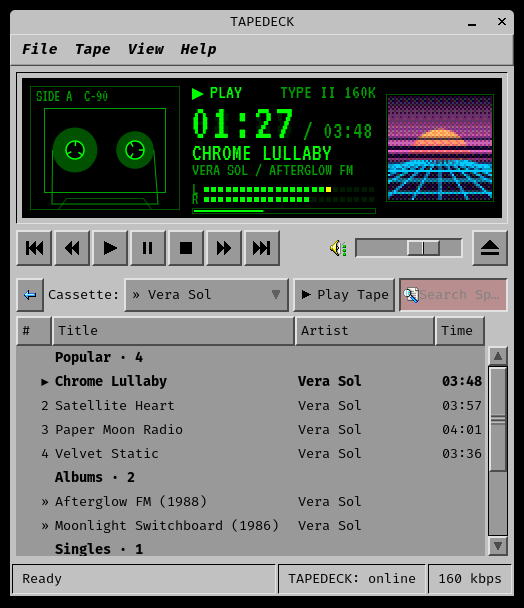
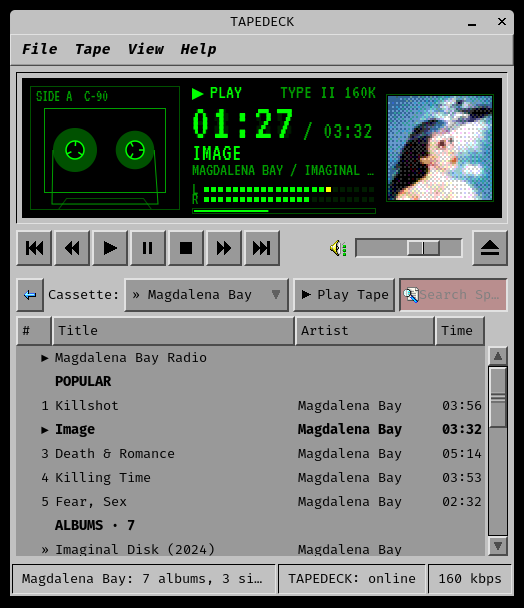
Screenshots: Magdalena Bay, Imaginal Disk

diff --git a/tools/screenshots.py b/tools/screenshots.py
@@ -1,11 +1,11 @@
-"""Maintainer tool: render the README screenshots into docs/ with made-up sample data.
+"""Maintainer tool: render the README screenshots into docs/ from hardcoded catalog data.
 
-Nothing touches Spotify, the engine or a running TAPEDECK: it uses its own application id,
+Nothing touches your Spotify account, the engine or a running TAPEDECK (only the cover is
+downloaded, like any cover): it uses its own application id,
 fills the widgets directly and draws the window into a PNG. Run it headless under GTK broadway:
 
     broadwayd :7 & GDK_BACKEND=broadway BROADWAY_DISPLAY=:7 python3 tools/screenshots.py; kill %1
 """
-import math
 import os
 import sys
 
@@ -18,92 +18,70 @@ look.prepare()
 import cairo  # noqa: E402
 import gi  # noqa: E402
 gi.require_version("Gtk", "3.0")
-from gi.repository import Gdk, Gio, GLib, Gtk  # noqa: E402
+from gi.repository import Gio, GLib, Gtk  # noqa: E402
 
 from tapedeck import art, deck  # noqa: E402
-from tapedeck.drawer import heading, nav_item  # noqa: E402
+from tapedeck.drawer import album_item, album_kind, heading, length, nav_item  # noqa: E402
 
 OUT = os.path.join(ROOT, "docs")
-MIN = 60_000
 
-TAPE = "Night Drive"
-TRACKS = [   # title, artist, album, ms
-    ("Neon Overpass", "The Midnight Carriers", "Coastline Static", 4 * MIN + 12_000),
-    ("Chrome Lullaby", "Vera Sol", "Afterglow FM", 3 * MIN + 48_000),
-    ("Polaroid Summer", "Kid Cassette", "Rewind & Play", 3 * MIN + 31_000),
-    ("Signal Lost", "The Midnight Carriers", "Coastline Static", 5 * MIN + 2_000),
-    ("Arcade Rain", "Pixel Harbor", "Insert Coin", 4 * MIN + 40_000),
-    ("Highway 9 (Dub)", "Lowlight Motel", "Vacancy", 6 * MIN + 15_000),
-    ("Satellite Heart", "Vera Sol", "Afterglow FM", 3 * MIN + 57_000),
-    ("Dial Tone Romance", "June Analog", "Party Line", 3 * MIN + 22_000),
-    ("Magnetic North", "Kid Cassette", "Rewind & Play", 4 * MIN + 5_000),
-    ("Slow Fade to Blue", "Lowlight Motel", "Vacancy", 5 * MIN + 33_000),
-    ("Tokyo by Payphone", "Pixel Harbor", "Insert Coin", 3 * MIN + 49_000),
-    ("Last Exit Sunrise", "June Analog", "Party Line", 4 * MIN + 28_000),
+# Real catalog data (Spotify Web API, 2026-10-15), hardcoded so the shots are reproducible offline.
+ARTIST = "Magdalena Bay"
+ALBUM = "Imaginal Disk"
+ALBUM_URI = "spotify:album:2Htq1sHgmdGffojIBM6Q1s"
+COVER = "https://i.scdn.co/image/ab67616d00004851a3390485ba30a0a99feaa0dd"
+TRACKS = [   # Imaginal Disk (2024): title, ms
+    ("She Looked Like Me!", 193186), ("Killing Time", 233546), ("True Blue Interlude", 109226),
+    ("Image", 212866), ("Death & Romance", 314733), ("Fear, Sex", 152053),
+    ("Vampire in the Corner", 202440), ("Watching T.V.", 245413), ("Tunnel Vision", 305520),
+    ("Love Is Everywhere", 194413), ("Feeling DiskInserted?", 58600), ("That's My Floor", 209800),
+    ("Cry for Me", 307266), ("Angel on a Satellite", 243426), ("The Ballad of Matt & Mica", 240000),
 ]
-NOW = 1   # Chrome Lullaby
+NOW = 3      # Image
+POPULAR = [("Killshot", "Killshot", 236363), ("Image", ALBUM, 212866), ("Death & Romance", ALBUM, 314733),
+           ("Killing Time", ALBUM, 233546), ("Fear, Sex", ALBUM, 152053)]
+ALBUMS = [   # name, type, tracks, release date
+    ("Imaginal Disk", "album", 15, "2024-08-23"), ("mini mix vol. 3", "album", 7, "2023-04-13"),
+    ("Mercurial World (Deluxe)", "album", 28, "2022-09-23"), ("Mercurial World", "album", 14, "2021-10-08"),
+    ("mini mix vol. 2", "album", 7, "2020-11-20"), ("A Little Rhythm and a Wicked Feeling", "album", 8, "2020-03-13"),
+    ("mini mix vol. 1", "album", 7, "2019-07-19"),
+    ("This Is The World (I Made It For You) / Nice Day", "single", 2, "2025-11-14"),
+    ("Unoriginal / Black-Eyed Susan Climb", "single", 2, "2025-10-31"),
+    ("Human Happens / Paint Me A Picture", "single", 2, "2025-10-17"),
+]
+SIMILAR = ["Caroline Polachek", "AFTER", "Charli xcx", "Hemlocke Springs"]
 
 
-def rows():
-    return [[t, a, al, ms, f"spotify:track:demo{i}"] for i, (t, a, al, ms) in enumerate(TRACKS)]
+def uri(title):
+    return "spotify:track:" + "".join(c for c in title.lower() if c.isalnum())
 
 
-def cover():
-    """A synthwave sunset, put through the same 52 px web-safe dither as real covers."""
-    s = art.SIZE
-    surf = cairo.ImageSurface(cairo.FORMAT_RGB24, s, s)
-    cr = cairo.Context(surf)
-    sky = cairo.LinearGradient(0, 0, 0, s * 0.62)
-    sky.add_color_stop_rgb(0, 0.10, 0.04, 0.18)
-    sky.add_color_stop_rgb(1, 1.0, 0.44, 0.81)
-    cr.set_source(sky)
-    cr.paint()
-    sun = cairo.LinearGradient(0, s * 0.18, 0, s * 0.62)
-    sun.add_color_stop_rgb(0, 1.0, 0.9, 0.3)
-    sun.add_color_stop_rgb(1, 1.0, 0.3, 0.5)
-    cr.set_source(sun)
-    cr.arc(s / 2, s * 0.62, s * 0.3, math.pi, 0)
-    cr.fill()
-    cr.set_source_rgb(0.10, 0.04, 0.18)
-    for i, y in enumerate((0.40, 0.48, 0.55)):
-        cr.rectangle(0, s * y, s, 1 + i)
-        cr.fill()
-    cr.rectangle(0, s * 0.62, s, s)
-    cr.fill()
-    cr.set_source_rgb(0.0, 0.8, 1.0)
-    cr.set_line_width(1)
-    for k in range(-6, 7):
-        cr.move_to(s / 2 + k * 2, s * 0.62)
-        cr.line_to(s / 2 + k * 14, s)
-    for y in (0.66, 0.72, 0.81, 0.93):
-        cr.move_to(0, s * y)
-        cr.line_to(s, s * y)
-    cr.stroke()
-    pb = Gdk.pixbuf_get_from_surface(surf, 0, 0, s, s)
-    return art.surface(art._dither(pb))
+def album_rows():
+    return [[t, ARTIST, ALBUM, ms, uri(t)] for t, ms in TRACKS]
 
 
-def stage(d, playing=True):
-    title, artist, album, ms = TRACKS[NOW]
+def stage(d):
+    title, ms = TRACKS[NOW]
     t = d.tape
-    t.name, t.artists, t.album, t.uri = title, artist, album, f"spotify:track:demo{NOW}"
-    t.duration_ms, t.mode, t.volume = ms, "play" if playing else "pause", 70
+    t.name, t.artists, t.album, t.uri = title, ARTIST, ALBUM, uri(title)
+    t.duration_ms, t.mode, t.volume = ms, "play", 70
     t.set_pos(83_000)
     t.angles = [0.6, 2.1]
-    t.vu = (0.74, 0.63) if playing else None
-    t.art = cover()
+    t.vu = (0.74, 0.63)
+    t.art = art.surface(art.load(COVER))    # the real cover, through the app's own dither
     d.quiet = True
     d.vol.set_value(70)
     d.quiet = False
     d.set_online(True)
 
 
-def combo(dr, entries, active):
+def combo(dr, page, label):
     dr.combo.handler_block_by_func(dr._on_combo)
     dr.combo.remove_all()
-    for cid, label in entries:
-        dr.combo.append(cid, label)
-    dr.combo.set_active_id(active)
+    for cid, text in [("liked", "Liked Songs"), ("search", "Search Results"), ("queue", "Up Next (queue)"),
+                      (page, "» " + label)]:
+        dr.combo.append(cid, text)
+    dr.combo.set_active_id(page)
     dr.combo.handler_unblock_by_func(dr._on_combo)
 
 
@@ -115,36 +93,35 @@ def shoot(w, name):
     print(name, a.width, "x", a.height)
 
 
-def tape_open(d):
-    dr = d.drawer
-    combo(dr, [("liked", "Liked Songs"), ("search", "Search Results"), ("queue", "Up Next (queue)"),
-               ("demo", TAPE)], "demo")
-    dr._fill(rows())
+def album_page(d):
+    """As Drawer._load_album lays it out."""
+    dr, rows = d.drawer, album_rows()
+    combo(dr, "album:demo", ALBUM)
+    items = [heading("ALBUM · 2024")] + [("track", r) for r in rows]
+    items += [heading("BY"), nav_item("artist", ARTIST, "spotify:artist:1oPRcJUkloHaRLYx0olBLJ", ARTIST)]
+    dr._fill_items(items)
     dr.mark_playing(d.tape.uri, d.tape.name, d.tape.artists)
-    dr.tree.set_cursor(Gtk.TreePath(3), None, False)
-    dr._summary(TAPE)
+    dr.tree.set_cursor(Gtk.TreePath(5), None, False)     # Death & Romance
+    d.say(f"{ALBUM} (2024): {len(rows)} tracks, {length(rows)}")
 
 
 def artist_page(d):
+    """As Drawer._load_artist's build() lays it out."""
     dr = d.drawer
-    combo(dr, [("liked", "Liked Songs"), ("search", "Search Results"), ("queue", "Up Next (queue)"),
-               ("artist:demo", "» Vera Sol"), ("demo", TAPE)], "artist:demo")
-    pop = [r for r in rows() if r[1] == "Vera Sol"] + [
-        ["Paper Moon Radio", "Vera Sol", "Afterglow FM", 4 * MIN + 1_000, "spotify:track:demoA"],
-        ["Velvet Static", "Vera Sol", "Velvet Static", 3 * MIN + 36_000, "spotify:track:demoB"]]
-    dr._fill_items(
-        [heading("Popular", len(pop))] + [("track", r) for r in pop]
-        + [heading("Albums", 2),
-           ("album", "Afterglow FM (1988)", "Vera Sol", "", "spotify:album:a", "Afterglow FM\nAlbum · 1988"),
-           ("album", "Moonlight Switchboard (1986)", "Vera Sol", "", "spotify:album:b", "Album · 1986"),
-           heading("Singles", 1),
-           ("album", "Velvet Static (1989)", "Vera Sol", "", "spotify:album:c", "Single · 1989"),
-           heading("Fans Also Like", 3),
-           nav_item("artist", "June Analog", "spotify:artist:a", "June Analog"),
-           nav_item("artist", "Pixel Harbor", "spotify:artist:b", "Pixel Harbor"),
-           nav_item("radio", "Vera Sol Radio", "radio:demo", "Start radio")])
+    combo(dr, "artist:demo", ARTIST)
+    kinds = {"Album": [], "EP": [], "Single": [], "Compilation": []}
+    for name, typ, n, date in ALBUMS:
+        al = {"name": name, "album_type": typ, "total_tracks": n, "release_date": date,
+              "artists": [{"name": ARTIST}], "uri": "spotify:album:" + uri(name)[14:]}
+        kinds[album_kind(al)].append(album_item(al))
+    popular = [("track", [t, ARTIST, al, ms, uri(t)]) for t, al, ms in POPULAR]
+    items = [nav_item("radio", f"{ARTIST} Radio", ARTIST, f"{ARTIST} Radio")]
+    for head, group in [("POPULAR", popular), ("ALBUMS", kinds["Album"]), ("SINGLES", kinds["Single"]),
+                        ("FANS ALSO LIKE", [nav_item("artist", n, "dz:" + n, n) for n in SIMILAR])]:
+        items += [heading(head, len(group) if head != "POPULAR" else None)] + group
+    dr._fill_items(items)
     dr.mark_playing(d.tape.uri, d.tape.name, d.tape.artists)
-    d.say("Ready")
+    d.say(f"{ARTIST}: {len(kinds['Album'])} albums, {len(kinds['Single'])} singles")
 
 
 class Shots(Gtk.Application):
@@ -159,7 +136,7 @@ class Shots(Gtk.Application):
         w.show_all()
         steps = [
             lambda: shoot(w, "deck.png"),
-            lambda: (w.revealer.set_reveal_child(True), tape_open(w)),
+            lambda: (w.revealer.set_reveal_child(True), album_page(w)),
             lambda: w.drawer.tree.scroll_to_point(-1, 0),
             lambda: shoot(w, "tape.png"),
             lambda: artist_page(w),

diff --git a/README.md b/README.md
@@ -2,13 +2,13 @@
 
 Spotify client for HAVEN, in the style of a Win98 desktop utility with a cassette-deck display. Status: **1.0, shipped**: playlists, Liked Songs, search, the queue, artist and album pages, artist radio, album art on the display, spinning reels, real VU meters, MPRIS and media keys, a menu entry and an engine user service. See [PLAN.md](PLAN.md).
 
-![TAPEDECK playing a tape](docs/deck.png)
+![TAPEDECK playing Image by Magdalena Bay](docs/deck.png)
 
-| Cassettes in the drawer (`E`) | An artist page (`A`) |
+| An album in the drawer (`B`) | An artist page (`A`) |
 |---|---|
-| ![The drawer open on a playlist](docs/tape.png) | ![An artist page with popular tracks and albums](docs/artist.png) |
+| ![The drawer open on Imaginal Disk](docs/tape.png) | ![An artist page with popular tracks and albums](docs/artist.png) |
 
-<sub>Screenshots use made-up sample music; `tools/screenshots.py` regenerates them.</sub>
+<sub>Magdalena Bay, *Imaginal Disk* (2024). `tools/screenshots.py` regenerates the screenshots.</sub>
 
 ## Setup
 Needs Linux with X11 or Wayland, PulseAudio or PipeWire (`pacat`, `parec`, `pactl`), Python 3 with PyGObject and GTK 3 (Debian/Ubuntu: `python3-gi gir1.2-gtk-3.0 pulseaudio-utils`), a Spotify Premium account, and a free Spotify developer app.
